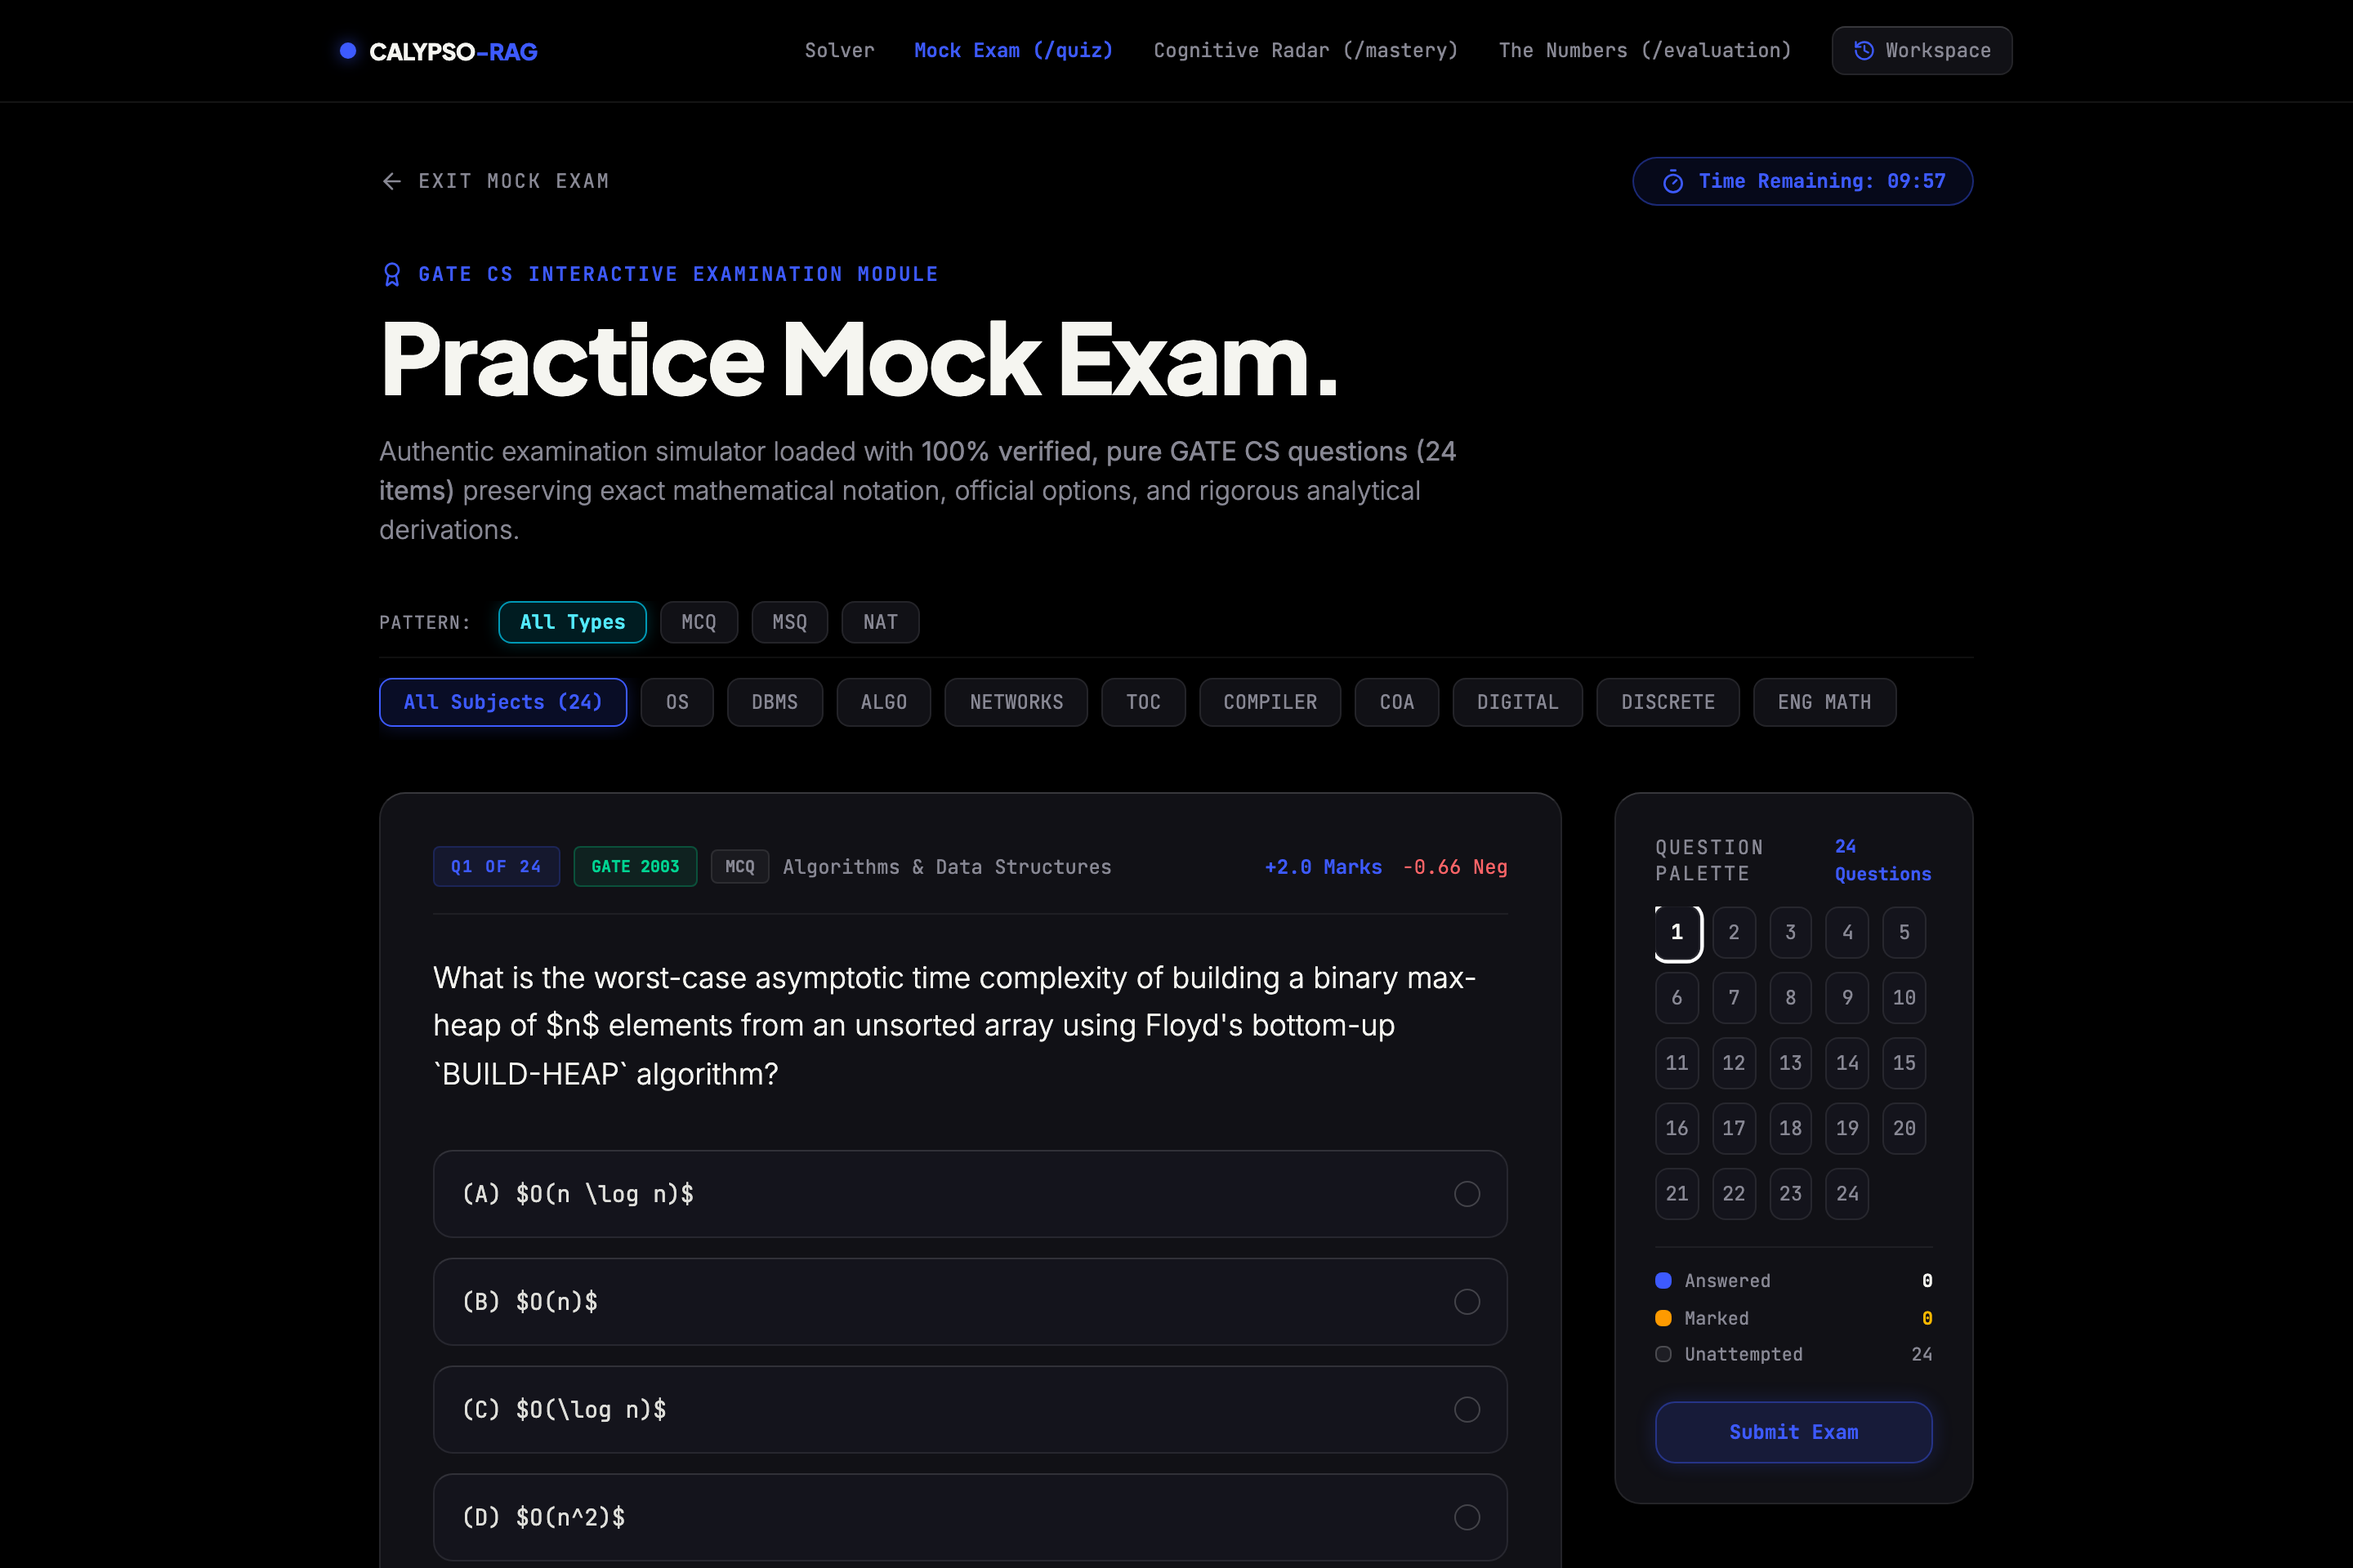
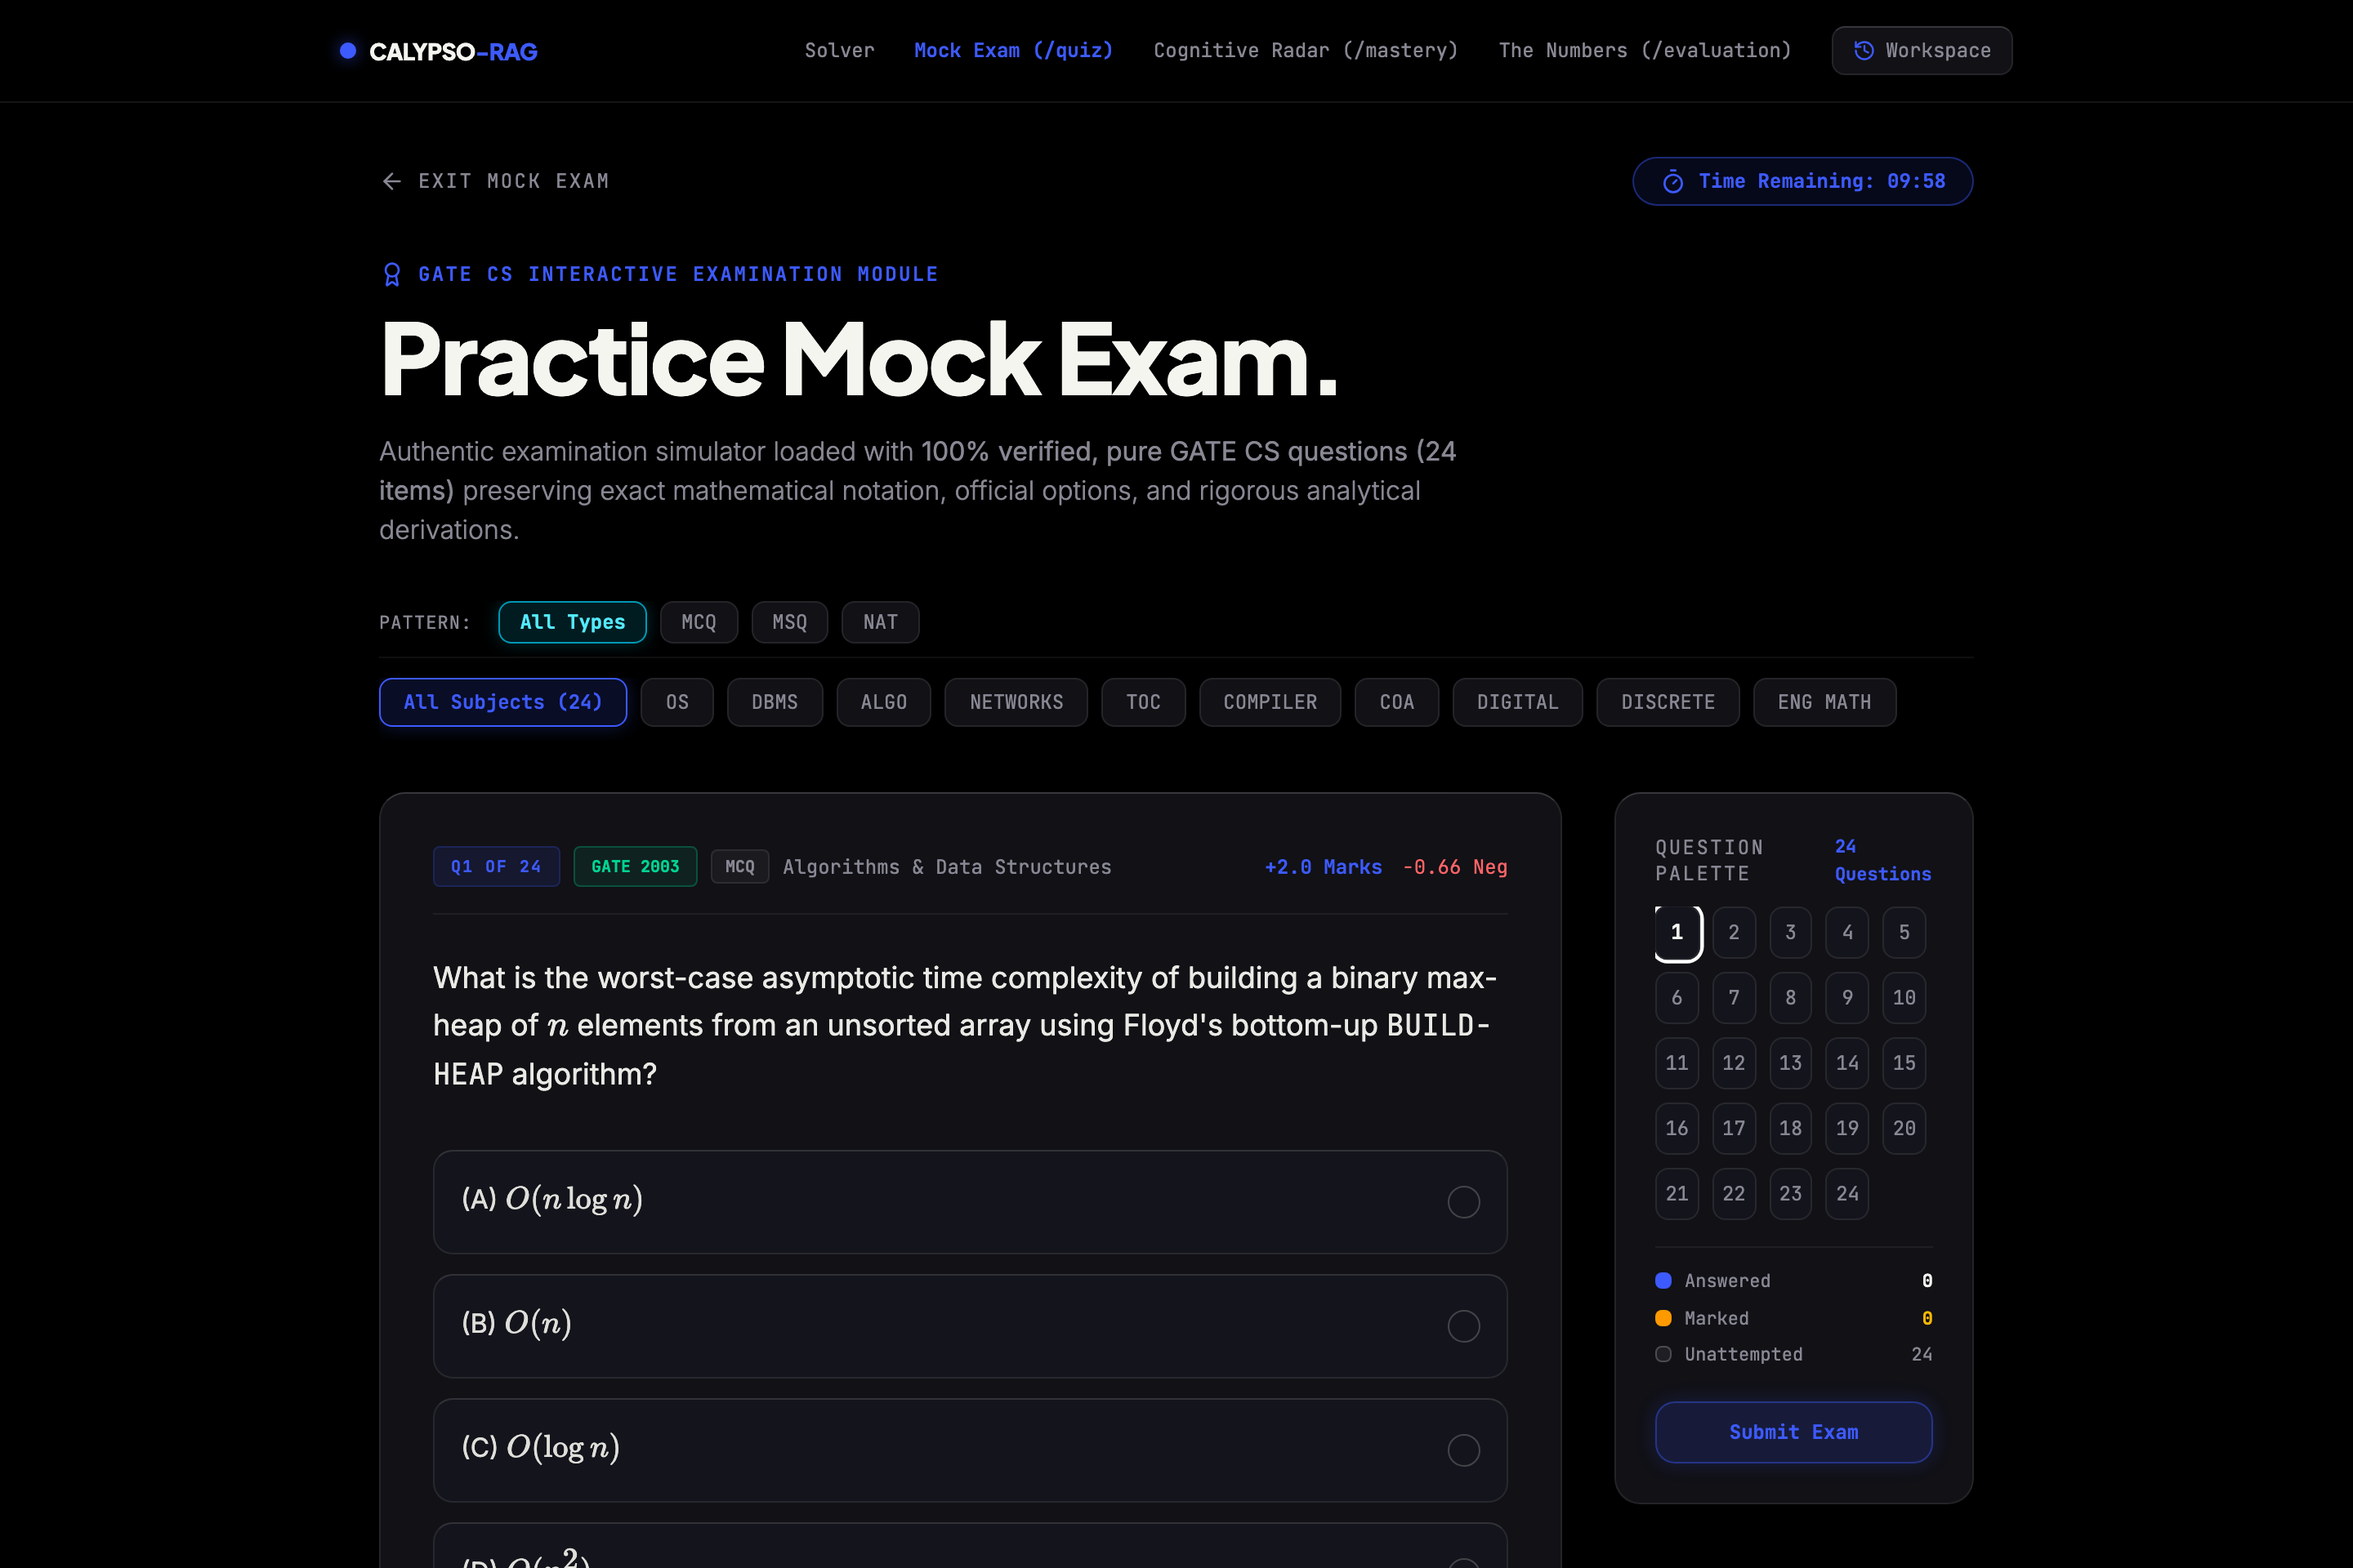
style(quiz): unify font family for question body, options, and solutions using Inter/sans with KaTeX rendering

Changed region(s): [[0.1875, 0.5938, 0.625, 0.6875], [0.1875, 0.8125, 0.2812, 1.0], [0.1875, 0.75, 0.2812, 0.7812]]

diff --git a/frontend/src/components/QuizView.tsx b/frontend/src/components/QuizView.tsx
@@ -1,6 +1,10 @@
 import React, { useState, useEffect } from 'react';
+import ReactMarkdown from 'react-markdown';
+import remarkMath from 'remark-math';
+import rehypeKatex from 'rehype-katex';
 import { ArrowLeft, Timer, CheckCircle2, XCircle, Award, RotateCcw, HelpCircle, Flag } from 'lucide-react';
 import { GATE_SUBJECTS } from './SubjectFilter';
+
 
 interface QuizQuestion {
   id: string;
@@ -294,10 +298,12 @@ export const QuizView: React.FC<QuizViewProps> = ({ onBack }) => {
                 </div>
               </div>
 
-              {/* Question Body */}
-              <p className="text-base sm:text-lg font-light text-off-white leading-relaxed mb-8">
-                {currentQ.question}
-              </p>
+              {/* Question Body with LaTeX Math Rendering in Match Font */}
+              <div className="text-base sm:text-lg font-sans font-normal text-off-white/95 leading-relaxed mb-8 answer-markdown">
+                <ReactMarkdown remarkPlugins={[remarkMath]} rehypePlugins={[rehypeKatex]}>
+                  {currentQ.question}
+                </ReactMarkdown>
+              </div>
 
               {/* Question Inputs: NAT vs MSQ vs MCQ */}
               {currentQ.type === 'NAT' ? (
@@ -310,7 +316,7 @@ export const QuizView: React.FC<QuizViewProps> = ({ onBack }) => {
                     value={userAnswers[currentQ.id] || ''}
                     onChange={(e) => handleSelectOption(currentQ.id, e.target.value.trim())}
                     placeholder="Enter numerical answer..."
-                    className="w-full max-w-sm px-4 py-3 rounded-lg border border-cyan-500/40 bg-[#121420] text-off-white font-mono text-base focus:outline-none focus:border-cyan-400"
+                    className="w-full max-w-sm px-4 py-3 rounded-lg border border-cyan-500/40 bg-[#121420] text-off-white font-sans text-base focus:outline-none focus:border-cyan-400"
                   />
                 </div>
               ) : currentQ.type === 'MSQ' ? (
@@ -319,7 +325,7 @@ export const QuizView: React.FC<QuizViewProps> = ({ onBack }) => {
                     Multiple Select Question (MSQ) — Select All Options That Apply:
                   </span>
                   {currentQ.options?.map((opt) => {
-                    const optKey = opt.charAt(0);
+                    const optKey = opt.charAt(1) || opt.charAt(0);
                     const currentSelected = (userAnswers[currentQ.id] || '').split(',').filter(Boolean);
                     const isChecked = currentSelected.includes(optKey);
 
@@ -342,9 +348,13 @@ export const QuizView: React.FC<QuizViewProps> = ({ onBack }) => {
                             : 'border-white/[0.08] border-t-white/[0.12] bg-[#14141c] hover:border-purple-500/50 text-off-white/90'
                         }`}
                       >
-                        <span className="text-sm font-mono">{opt}</span>
-                        <span className={`w-4 h-4 rounded border flex items-center justify-center ${
-                          isChecked ? 'border-purple-500 bg-purple-500 text-black font-bold text-[10px]' : 'border-white/20'
+                        <div className="text-sm sm:text-base font-sans font-normal leading-relaxed answer-markdown flex-1 pr-3">
+                          <ReactMarkdown remarkPlugins={[remarkMath]} rehypePlugins={[rehypeKatex]}>
+                            {opt}
+                          </ReactMarkdown>
+                        </div>
+                        <span className={`w-5 h-5 rounded border flex-shrink-0 flex items-center justify-center ${
+                          isChecked ? 'border-purple-500 bg-purple-500 text-black font-bold text-xs' : 'border-white/20'
                         }`}>
                           {isChecked && '✓'}
                         </span>
@@ -356,7 +366,7 @@ export const QuizView: React.FC<QuizViewProps> = ({ onBack }) => {
                 /* Standard MCQ */
                 <div className="space-y-3">
                   {currentQ.options?.map((opt) => {
-                    const optKey = opt.charAt(0);
+                    const optKey = opt.charAt(1) || opt.charAt(0);
                     const isSelected = userAnswers[currentQ.id] === optKey;
 
                     return (
@@ -370,17 +380,22 @@ export const QuizView: React.FC<QuizViewProps> = ({ onBack }) => {
                             : 'border-white/[0.08] border-t-white/[0.12] bg-[#14141c] hover:border-accent/50 text-off-white/90'
                         }`}
                       >
-                        <span className="text-sm font-mono">{opt}</span>
-                        <span className={`w-4 h-4 rounded-full border flex items-center justify-center ${
+                        <div className="text-sm sm:text-base font-sans font-normal leading-relaxed answer-markdown flex-1 pr-3">
+                          <ReactMarkdown remarkPlugins={[remarkMath]} rehypePlugins={[rehypeKatex]}>
+                            {opt}
+                          </ReactMarkdown>
+                        </div>
+                        <span className={`w-5 h-5 rounded-full border flex-shrink-0 flex items-center justify-center ${
                           isSelected ? 'border-accent bg-accent' : 'border-white/20'
                         }`}>
-                          {isSelected && <span className="w-1.5 h-1.5 rounded-full bg-white" />}
+                          {isSelected && <span className="w-2 h-2 rounded-full bg-white" />}
                         </span>
                       </button>
                     );
                   })}
                 </div>
               )}
+
 
 
               {/* Navigation & Action Buttons */}
@@ -616,9 +631,11 @@ export const QuizView: React.FC<QuizViewProps> = ({ onBack }) => {
                     </div>
                   </div>
 
-                  <p className="text-base text-off-white font-light leading-relaxed">
-                    {q.question}
-                  </p>
+                  <div className="text-base font-sans font-normal text-off-white/95 leading-relaxed answer-markdown">
+                    <ReactMarkdown remarkPlugins={[remarkMath]} rehypePlugins={[rehypeKatex]}>
+                      {q.question}
+                    </ReactMarkdown>
+                  </div>
 
                   <div className="grid sm:grid-cols-2 gap-2 text-xs font-mono">
                     <div className="p-3 rounded-lg bg-[#151520] border border-white/[0.04]">
@@ -629,22 +646,26 @@ export const QuizView: React.FC<QuizViewProps> = ({ onBack }) => {
                     </div>
                     <div className="p-3 rounded-lg bg-[#151520] border border-white/[0.04]">
                       <span className="text-muted-gray block text-[10px] mb-1">Correct Answer:</span>
-                      <strong className="text-accent">{q.correct_answer}</strong>
+                      <strong className="text-emerald-400">{q.correct_answer}</strong>
                     </div>
                   </div>
 
-                  {/* Verified CALYPSO Derivation */}
-                  <div className="p-4 rounded-xl border border-accent/20 bg-accent/[0.05] space-y-2">
-                    <span className="text-[10px] font-mono text-accent uppercase tracking-widest font-bold block">
-                      CALYPSO Verified Step-by-Step Derivation & Invariants:
-                    </span>
-                    <p className="text-xs font-mono text-off-white/90 leading-relaxed whitespace-pre-line">
-                      {q.explanation}
-                    </p>
-                  </div>
+                  {q.explanation && (
+                    <div className="p-4 rounded-xl border border-white/[0.06] bg-[#14141c] text-xs font-sans text-muted-gray space-y-2 answer-markdown">
+                      <span className="text-off-white font-mono font-semibold block text-[11px] uppercase tracking-wider text-accent">
+                        Step-by-Step Analytical Derivation:
+                      </span>
+                      <div className="font-normal text-off-white/90 leading-relaxed">
+                        <ReactMarkdown remarkPlugins={[remarkMath]} rehypePlugins={[rehypeKatex]}>
+                          {q.explanation}
+                        </ReactMarkdown>
+                      </div>
+                    </div>
+                  )}
                 </div>
               );
             })}
+
           </div>
         </div>
       )}
